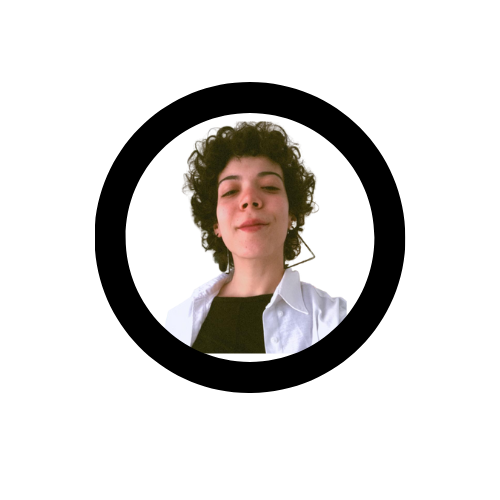
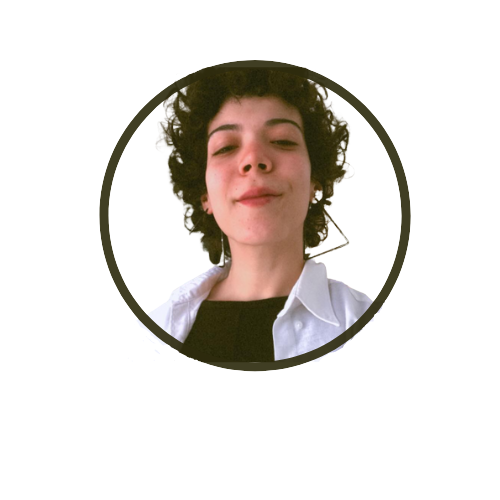
Update skills section

Changed region(s): [[0.18, 0.12, 0.84, 0.81]]

diff --git a/index.html b/index.html
@@ -96,11 +96,13 @@
                 <div class="row">
                   <div class="col-sm-6 col-md-5">
                     <div class="about-img">
-                      <img src="img/Icon.png" class="img-fluid rounded b-shadow-a" alt="">
+                      <img src="img/ID.png" class="img-fluid rounded b-shadow-a" alt="" width="120" height="65">
                     </div>
                   </div>
                   <div class="col-sm-6 col-md-7">
                     <div class="about-info">
+                      <br>
+                      <br>
                       <p><span class="title-s">Name: </span> <span>Hadir Jenni</span></p>
                       <p><span class="title-s">Profile: </span> <span>Game Developer</span></p>
                       <p><span class="title-s">Email: </span> <span>hadirjenni@gmail.com</span></p>
@@ -109,27 +111,20 @@
                   </div>
                 </div>
                 <div class="skill-mf">
-                  <p class="title-s">Skill</p>
-                  <span>C#</span> <span class="pull-right"></span>
-                  <div class="progress">
-                    <div class="progress-bar" role="progressbar" style="width: 85%;" aria-valuenow="85" aria-valuemin="0"
-                      aria-valuemax="100"></div>
-                  </div>
-                  <span>CSS3</span> <span class="pull-right"></span>
-                  <div class="progress">
-                    <div class="progress-bar" role="progressbar" style="width: 75%" aria-valuenow="75" aria-valuemin="0"
-                      aria-valuemax="100"></div>
-                  </div>
-                  <span>C#</span> <span class="pull-right"></span>
-                  <div class="progress">
-                    <div class="progress-bar" role="progressbar" style="width: 50%" aria-valuenow="50" aria-valuemin="0"
-                      aria-valuemax="100"></div>
-                  </div>
-                  <span>JAVASCRIPT</span> <span class="pull-right"></span>
-                  <div class="progress">
-                    <div class="progress-bar" role="progressbar" style="width: 90%" aria-valuenow="90" aria-valuemin="0"
-                      aria-valuemax="100"></div>
-                  </div>
+                  <p class="title-s">Skills</p>
+                  <img src="skills/python.png" alt="Python icon">
+                  <img src="skills/c-sharp.png" alt="C# icon">
+                  <img src="skills/letter-c.png" alt="C icon">
+                  <img src="skills/html-5.png" alt="HTML5 icon">
+                  <img src="skills/css.png" alt="CSS3 icon">
+                  <img src="skills/java-script.png" alt="JavaScript icon">
+                  <img src="skills/sql-server.png" alt="Sql icon"> <br>
+                  <br>
+                  <img src="skills/git.png" alt="Git icon">
+                  <img src="skills/unity.png" alt="Unity icon">
+                  <img src="skills/linux.png" alt="Linux">
+                  <img src="skills/Net.png" alt=".Net">
+                  <img src="skills/visual-studio.png" alt="VSC">
                 </div>
               </div>
               <div class="col-md-6">
@@ -531,8 +526,14 @@
                       Resume
                     </h5>
                   </div>
+                  <h6>Download Resume</h6>
                   <a href="pdf/Hadir-Jenni-Game-Developer-2022.pdf" download="Hadir-Jenni-Game-Developer-2022" target="_blank">
-                    <img src="img/resume.jpg" alt="Resume">
+                    <img src="img/downloadResume.png" alt="Resume" width="100" height="100">
+                  </a>
+                  <br>
+                  <h6>View Resume</h6>
+                  <a href="pdf/Hadir-Jenni-Game-Developer-2022.pdf" target="_blank">
+                    <img src="img/ViewResume.png" alt="Resume" width="100" height="100">
                   </a>
                 </div>
                 <div class="col-md-6">

diff --git a/css/style-green.css b/css/style-green.css
@@ -684,22 +684,6 @@ a:hover {
   margin-left: 10px;
 }
 
-.skill-mf span {
-  color: #4e4e4e;
-}
-
-.skill-mf .progress {
-  background-color: #bbf5df;
-  margin: .5rem 0 1.2rem 0;
-  border-radius: 0;
-  height: .7rem;
-}
-
-.skill-mf .progress .progress-bar {
-  height: .7rem;
-  background-color: #24b67e;
-}
-
 /*======================================
 //--//-->   SERVICES
 ======================================*/

diff --git a/css/style-orange.css b/css/style-orange.css
@@ -684,22 +684,6 @@ a:hover {
   margin-left: 10px;
 }
 
-.skill-mf span {
-  color: #4e4e4e;
-}
-
-.skill-mf .progress {
-  background-color: #faded3;
-  margin: .5rem 0 1.2rem 0;
-  border-radius: 0;
-  height: .7rem;
-}
-
-.skill-mf .progress .progress-bar {
-  height: .7rem;
-  background-color: #f0642d;
-}
-
 /*======================================
 //--//-->   SERVICES
 ======================================*/

diff --git a/css/style-purple.css b/css/style-purple.css
@@ -684,22 +684,6 @@ a:hover {
   margin-left: 10px;
 }
 
-.skill-mf span {
-  color: #4e4e4e;
-}
-
-.skill-mf .progress {
-  background-color: #e3c5ff;
-  margin: .5rem 0 1.2rem 0;
-  border-radius: 0;
-  height: .7rem;
-}
-
-.skill-mf .progress .progress-bar {
-  height: .7rem;
-  background-color: #8400ff;
-}
-
 /*======================================
 //--//-->   SERVICES
 ======================================*/

diff --git a/css/style-red.css b/css/style-red.css
@@ -684,22 +684,6 @@ a:hover {
   margin-left: 10px;
 }
 
-.skill-mf span {
-  color: #4e4e4e;
-}
-
-.skill-mf .progress {
-  background-color: #f5dcdc;
-  margin: .5rem 0 1.2rem 0;
-  border-radius: 0;
-  height: .7rem;
-}
-
-.skill-mf .progress .progress-bar {
-  height: .7rem;
-  background-color: #be3131;
-}
-
 /*======================================
 //--//-->   SERVICES
 ======================================*/

diff --git a/css/style.css b/css/style.css
@@ -684,22 +684,6 @@ a:hover {
   margin-left: 10px;
 }
 
-.skill-mf span {
-  color: #4e4e4e;
-}
-
-.skill-mf .progress {
-  background-color: #cde1f8;
-  margin: .5rem 0 1.2rem 0;
-  border-radius: 0;
-  height: .7rem;
-}
-
-.skill-mf .progress .progress-bar {
-  height: .7rem;
-  background-color: #0078ff;
-}
-
 /*======================================
 //--//-->   SERVICES
 ======================================*/

diff --git a/css/style-sky-blue.css b/css/style-sky-blue.css
@@ -684,21 +684,6 @@ a:hover {
   margin-left: 10px;
 }
 
-.skill-mf span {
-  color: #4e4e4e;
-}
-
-.skill-mf .progress {
-  background-color: #d7ebf8;
-  margin: .5rem 0 1.2rem 0;
-  border-radius: 0;
-  height: .7rem;
-}
-
-.skill-mf .progress .progress-bar {
-  height: .7rem;
-  background-color: #48abec;
-}
 
 /*======================================
 //--//-->   SERVICES
